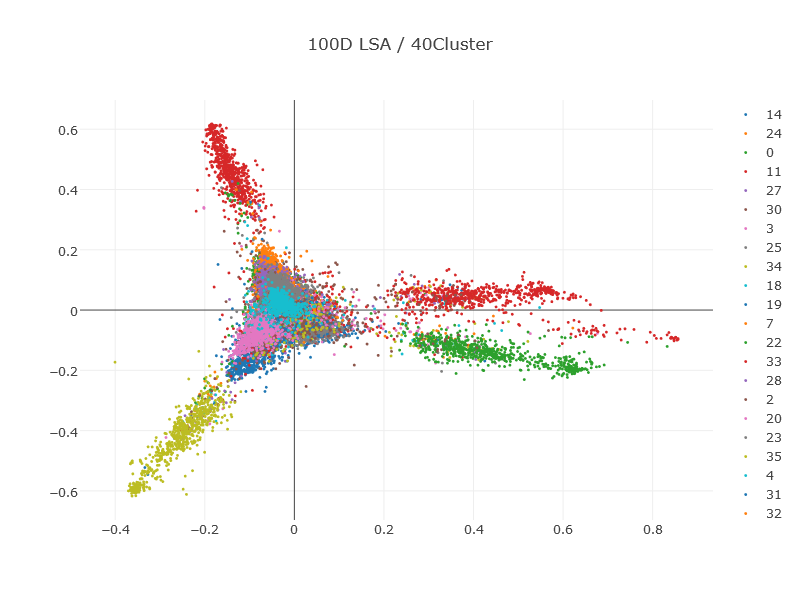
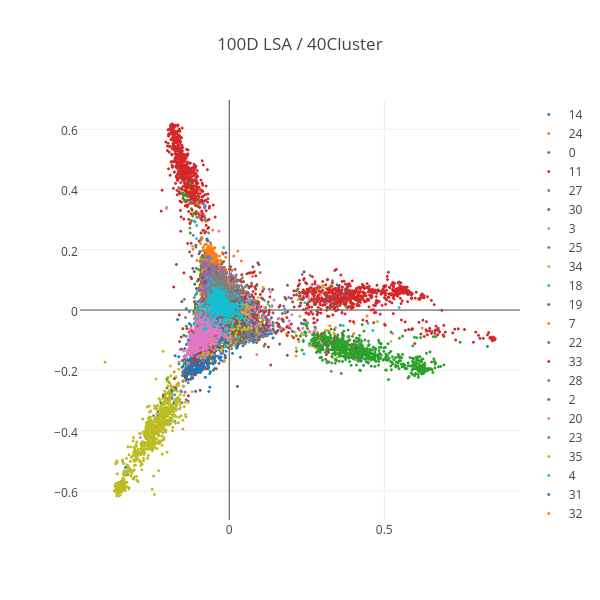
new visualization code

diff --git a/hw4/plot.py b/hw4/plot.py
@@ -1,0 +1,44 @@
+import plotly.plotly as py
+def plot(T):
+    data = []
+    for i in range(len(T['tag'].unique())):
+        name = T['tag'].unique()[i]
+        x = T[ T['tag'] == name ]['x']
+        y = T[ T['tag'] == name ]['y']
+        
+        trace = dict(
+            name = name,
+            x = x, y = y,
+            type = "scatter2d",    
+            mode = 'markers',
+            marker = dict( size=3, line=dict(width=0) ) )
+        data.append( trace )
+
+    title = '100D LSA / %dCluster' % len(T['tag'].unique())
+
+    layout = dict(
+        width=600, height=600,
+        autosize=False,
+        title=title,
+        scene=dict(
+            xaxis=dict(
+                gridcolor='rgb(255, 255, 255)',
+                zerolinecolor='rgb(255, 255, 255)',
+                showbackground=True,
+                backgroundcolor='rgb(230, 230,230)'
+            ),
+            yaxis=dict(
+                gridcolor='rgb(255, 255, 255)',
+                zerolinecolor='rgb(255, 255, 255)',
+                showbackground=True,
+                backgroundcolor='rgb(230, 230,230)'
+            ),
+            aspectratio = dict( x=1, y=1),
+            aspectmode = 'manual'
+        ),
+    )
+
+    fig = dict(data=data, layout=layout)
+    py.image.save_as(fig, filename=''\
+            .join(title.split(' '))\
+            .replace('/','_')+'.png')

diff --git a/hw4/data.py b/hw4/data.py
@@ -30,12 +30,12 @@ def loadC(path='data'):
     df = pd.read_csv(path+'check_index.csv', index_col=0)
     return df
 
-def savetags(tags, filename='tags'):
+def saveT(tags, filename='T'):
     with open('%s.cpk'%filename, 'wb') as f:
         cpk.dump(tags, f)
         print('Save as %s.cpk!'%filename)
 
-def loadtags(filename='tags'):
+def loadT(filename='T'):
     with open('%s.cpk'%filename, 'rb') as f:
         tags = cpk.load(f)
         print('Model %s.cpk loaded!'%filename)
